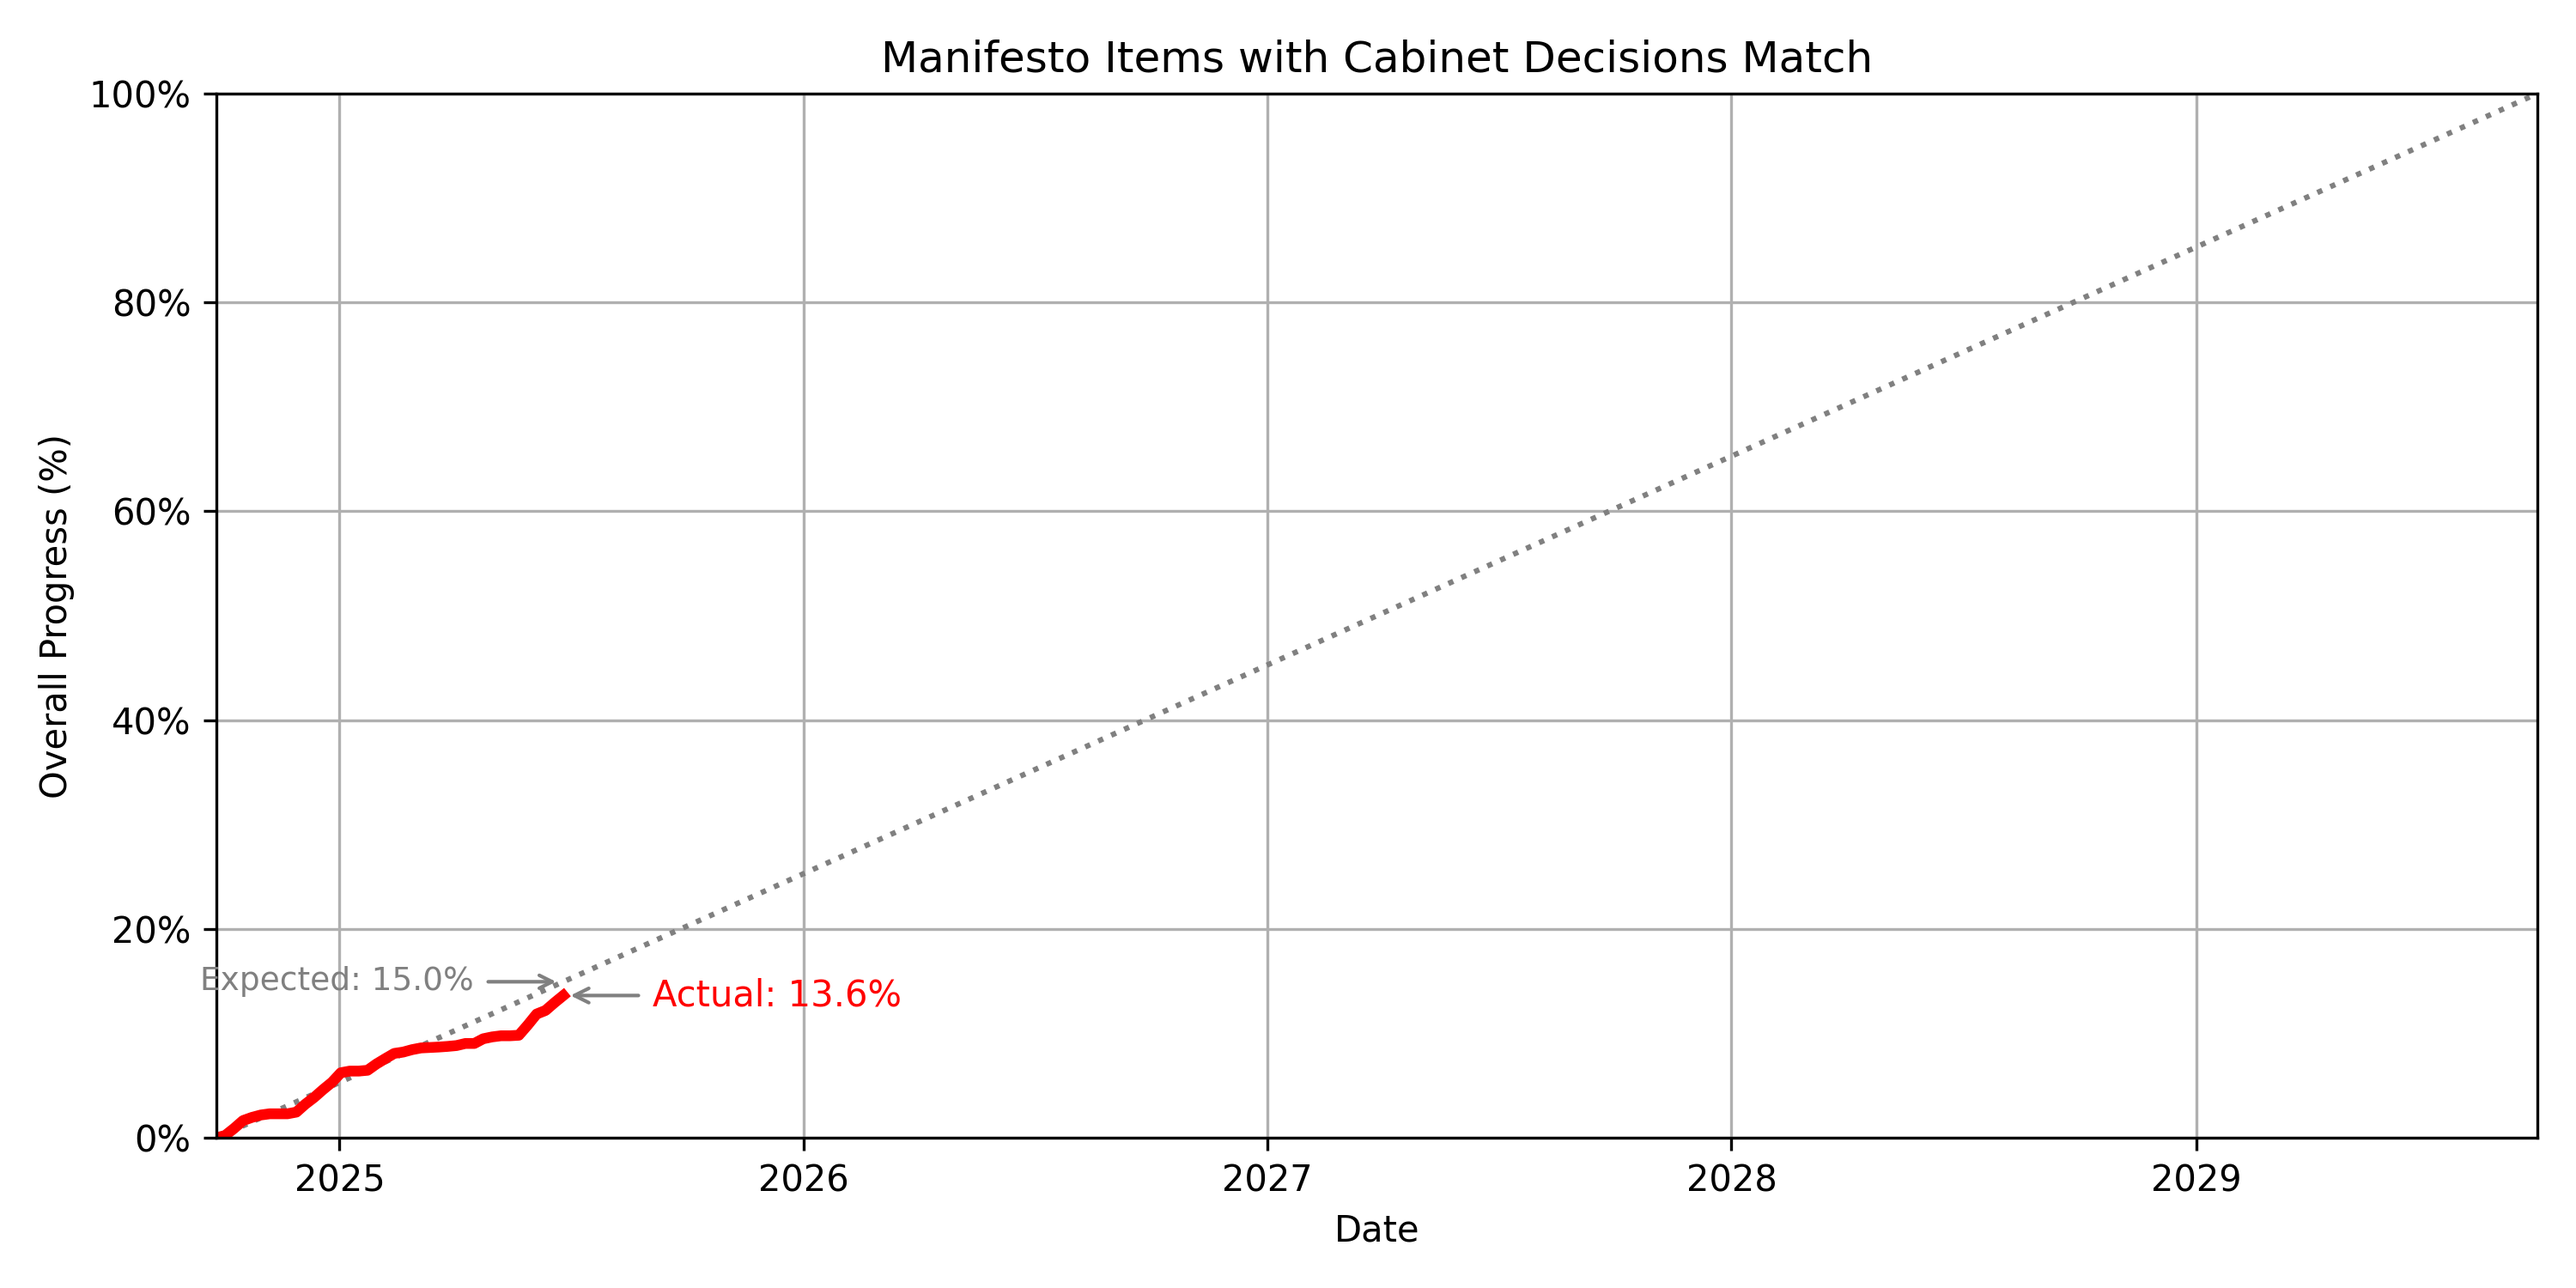
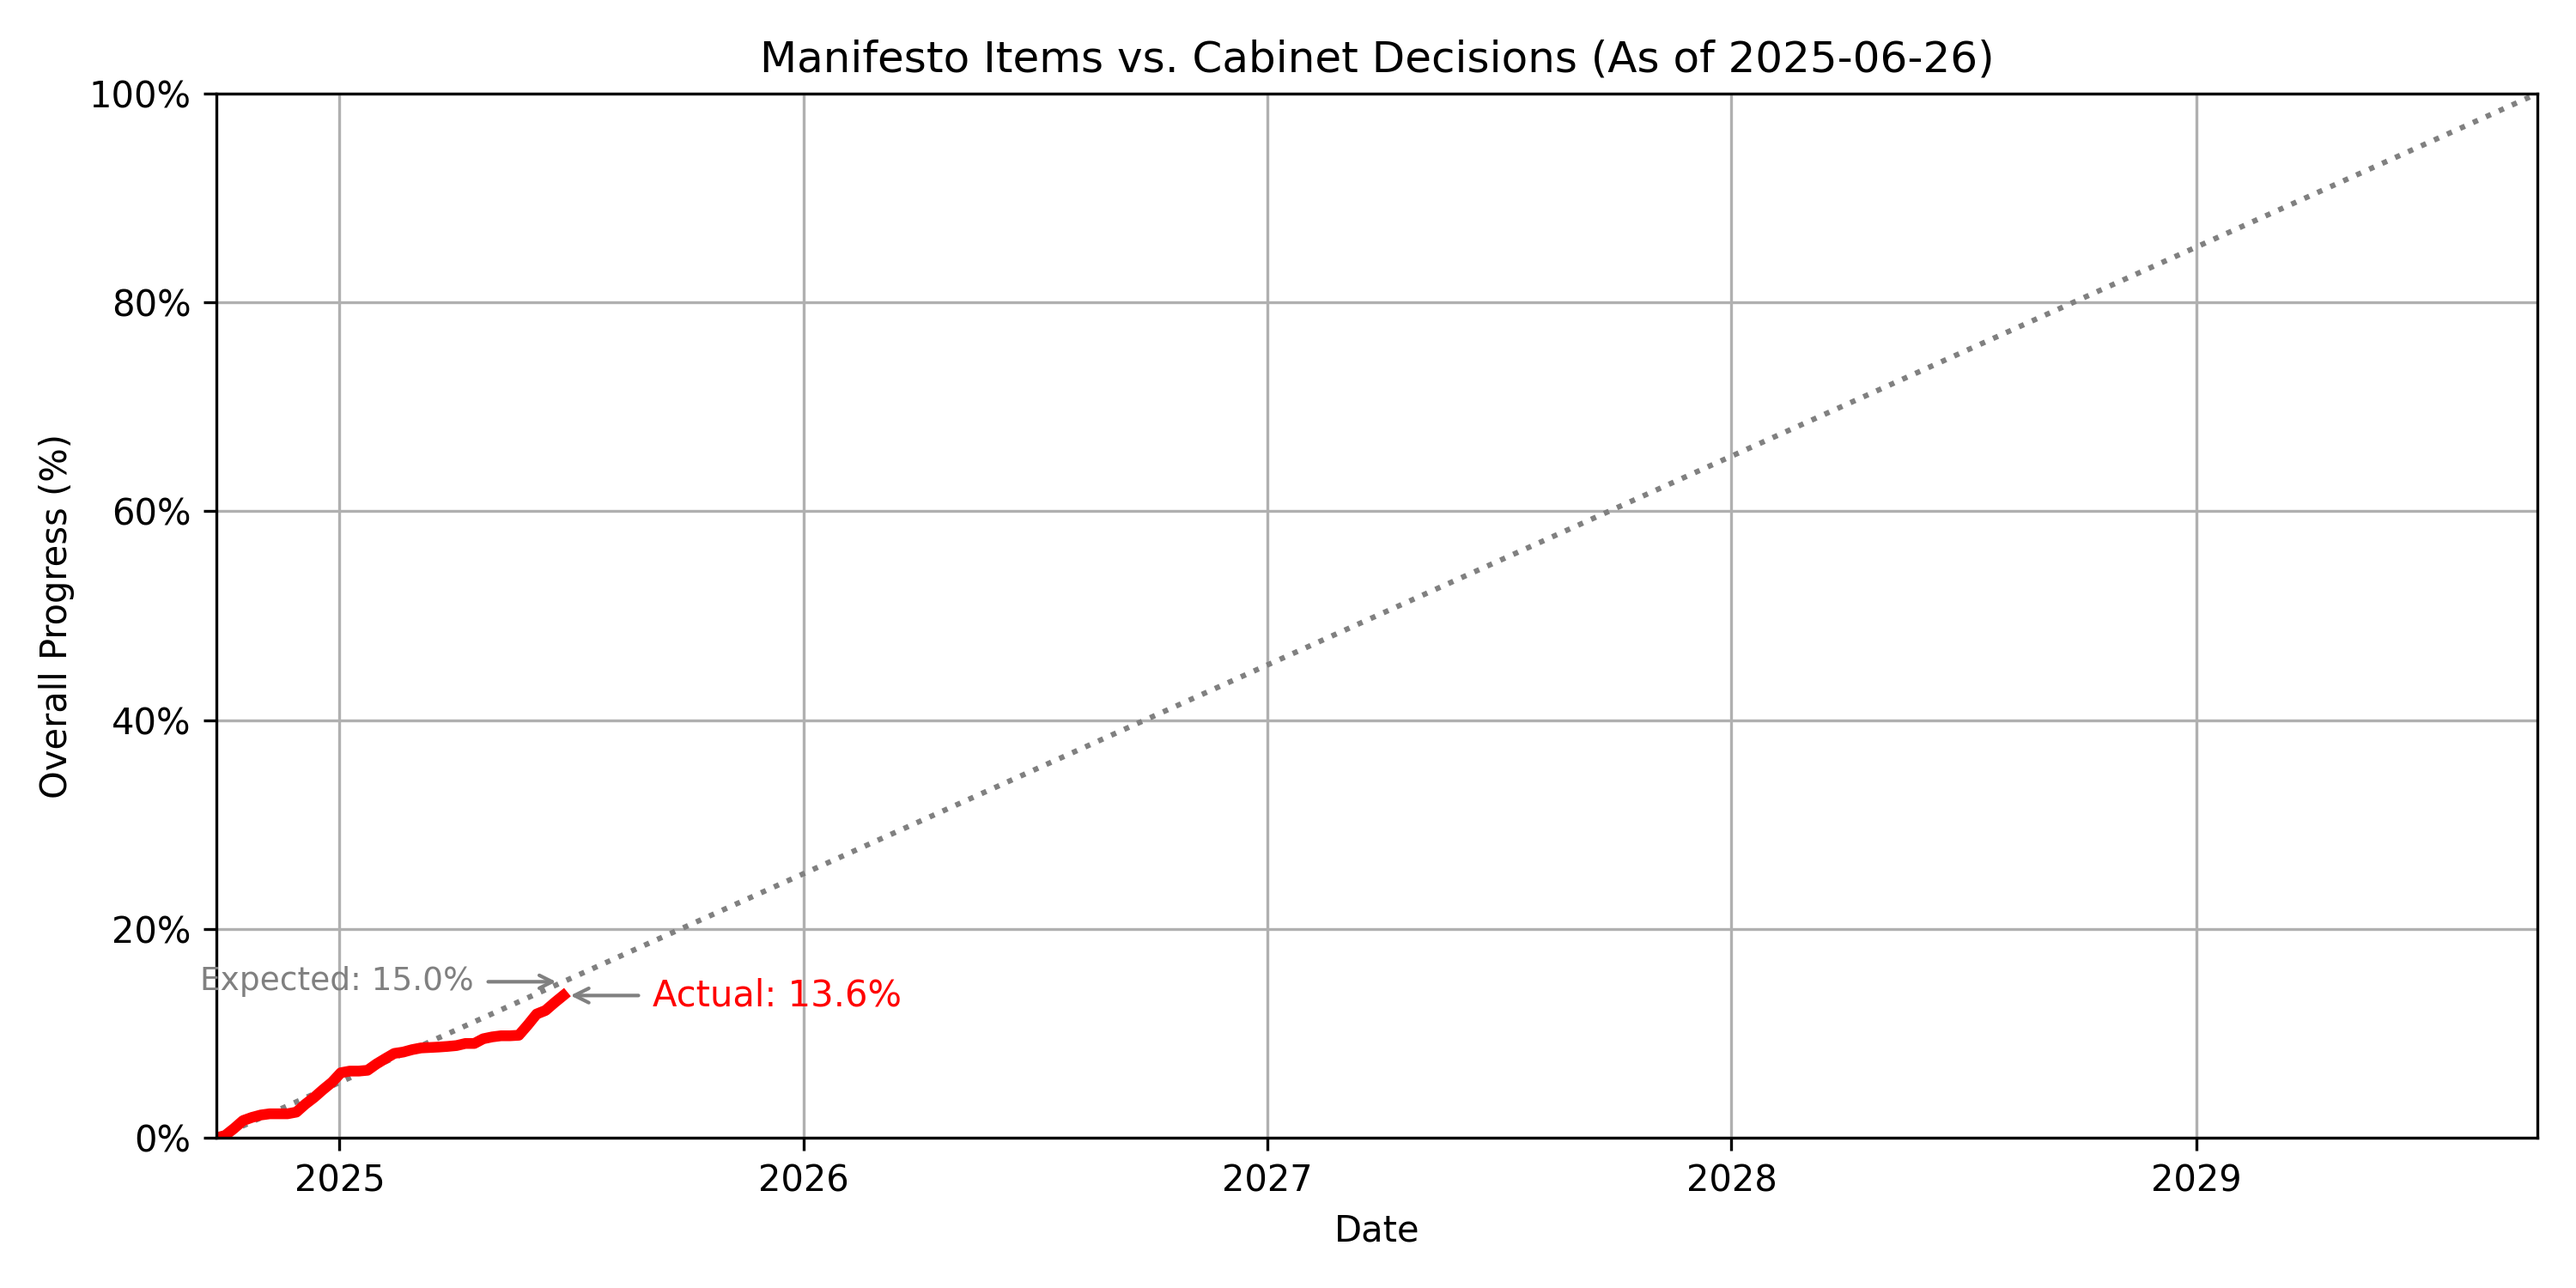
ProgressChart - Reorganize data; Add date to title

Changed region(s): [[0.279, 0.0307, 0.775, 0.0613]]

diff --git a/src/mm/monitoring/charts/ProgressChart.py b/src/mm/monitoring/charts/ProgressChart.py
@@ -12,25 +12,29 @@ class ProgressChart:
     CHART_PATH = os.path.join("images", "progress_chart.png")
 
     def __init__(self):
-        self.d_list = CompareManifesto().get_overall_progress_by_date()
+        d_list = CompareManifesto().get_overall_progress_by_date()
+        d_list.sort(key=lambda x: x["date"])
+        self.dates = [
+            datetime.strptime(item["date"], "%Y-%m-%d") for item in d_list
+        ]
+        self.progress = [item["progress"] for item in d_list]
 
-        self.d_list.sort(key=lambda x: x["date"])
+        self.x_min = min(self.dates)
+        self.x_max = self.x_min + relativedelta(years=5)
 
-    @staticmethod
-    def draw_annotate_latest_progress(dates, progress, x_max, x_min):
-        latest_date = dates[-1]
-        latest_progress = progress[-1]
+        self.latest_date = self.dates[-1]
+        self.latest_progress = self.progress[-1]
 
-        total_duration = (x_max - x_min).total_seconds()
-        elapsed = (latest_date - x_min).total_seconds()
-        expected_progress = (
-            elapsed / total_duration
-        )  # Value between 0.0 and 1.0
+        total_duration = (self.x_max - self.x_min).total_seconds()
+        elapsed = (self.latest_date - self.x_min).total_seconds()
+        self.expected_progress = elapsed / total_duration
+
+    def draw_annotate_latest_progress(self):
 
         plt.annotate(
-            f"Expected: {expected_progress:.1%}",
+            f"Expected: {self.expected_progress:.1%}",
             color="grey",
-            xy=(latest_date, expected_progress),
+            xy=(self.latest_date, self.expected_progress),
             xytext=(-25, 0),
             textcoords="offset points",
             ha="right",
@@ -39,9 +43,9 @@ class ProgressChart:
             arrowprops=dict(arrowstyle="->", color="grey", lw=1),
         )
         plt.annotate(
-            f"Actual: {latest_progress:.1%}",
+            f"Actual: {self.latest_progress:.1%}",
             color="red",
-            xy=(latest_date, latest_progress),
+            xy=(self.latest_date, self.latest_progress),
             xytext=(25, 0),
             textcoords="offset points",
             ha="left",
@@ -52,26 +56,21 @@ class ProgressChart:
 
     def draw(self):
         plt.close()
-        dates = [
-            datetime.strptime(item["date"], "%Y-%m-%d") for item in self.d_list
-        ]
-
-        progress = [item["progress"] for item in self.d_list]
-
-        x_min = min(dates)
-        x_max = x_min + relativedelta(years=5)
 
         plt.figure(figsize=(10, 5))
-        plt.plot([x_min, x_max], [0, 1.0], linestyle=":", color="grey")
-        plt.plot(dates, progress, color="red", linewidth=3)
+        plt.plot(
+            [self.x_min, self.x_max], [0, 1.0], linestyle=":", color="grey"
+        )
+        plt.plot(self.dates, self.progress, color="red", linewidth=3)
 
-        self.draw_annotate_latest_progress(dates, progress, x_max, x_min)
+        self.draw_annotate_latest_progress()
 
         plt.xlabel("Date")
         plt.ylabel("Overall Progress (%)")
-        plt.title("Manifesto Items with Cabinet Decisions Match")
+        date_str = self.latest_date.strftime("%Y-%m-%d")
+        plt.title(f"Manifesto Items vs. Cabinet Decisions (As of {date_str})")
         plt.ylim(0, 1.0)
-        plt.xlim(min(dates), x_max)
+        plt.xlim(self.x_min, self.x_max)
         plt.gca().yaxis.set_major_formatter(PercentFormatter(1.0))
         plt.grid(True)
         plt.tight_layout()
